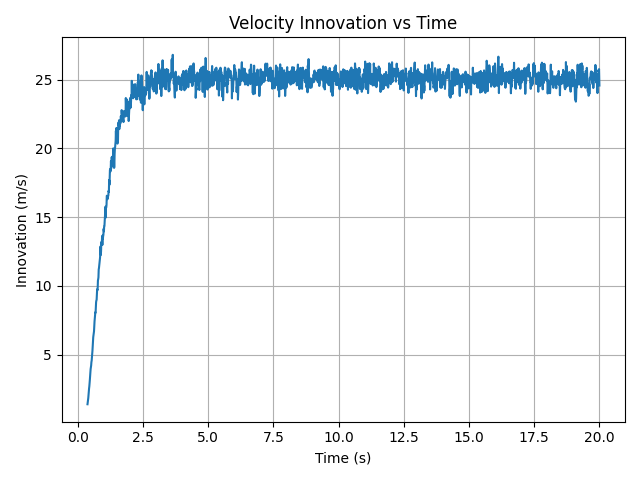
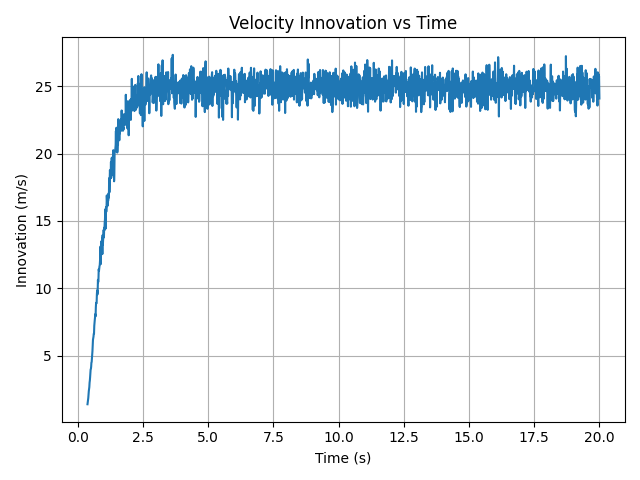
fixed covariance process

diff --git a/position/kalman_validation.py b/position/kalman_validation.py
@@ -117,6 +117,8 @@ def main() -> None:
     earth_mesh = pv_ex.planets.load_earth(radius=const.R_EARTH)
     earth_tex = pv_ex.load_globe_texture()
     
+    np.set_printoptions(linewidth=np.inf)
+    
     earth = cb.CelestialBody(
         "Earth",
         const.M_EARTH,
@@ -171,7 +173,7 @@ def main() -> None:
         (r_obv[:,obv_index].flatten(), v_1.flatten())
     ).reshape((6, 1))
     
-    process_noise = 0.1 * np.eye(6)
+    process_noise = 5 * np.eye(6)
     
     ekf = est.ExtendedKalmanFilter(
         transition_matrix_func,

diff --git a/spacesim/estimation.py b/spacesim/estimation.py
@@ -125,6 +125,8 @@ class ExtendedKalmanFilter():
         state_est = trans_mtx @ self.curr_state_est
         est_covar = trans_mtx @ self.est_covar @ trans_mtx.T + self.process_covar
         
+        # print(self.est_covar, end="\n\n")
+        
         innovation = measurement - observation_matrix @ state_est		# state residual
         innovation_covar = observation_matrix @ est_covar @ observation_matrix.T + observation_covariance
         kalman_gain = est_covar @ observation_matrix.T @ np.linalg.inv(innovation_covar)
